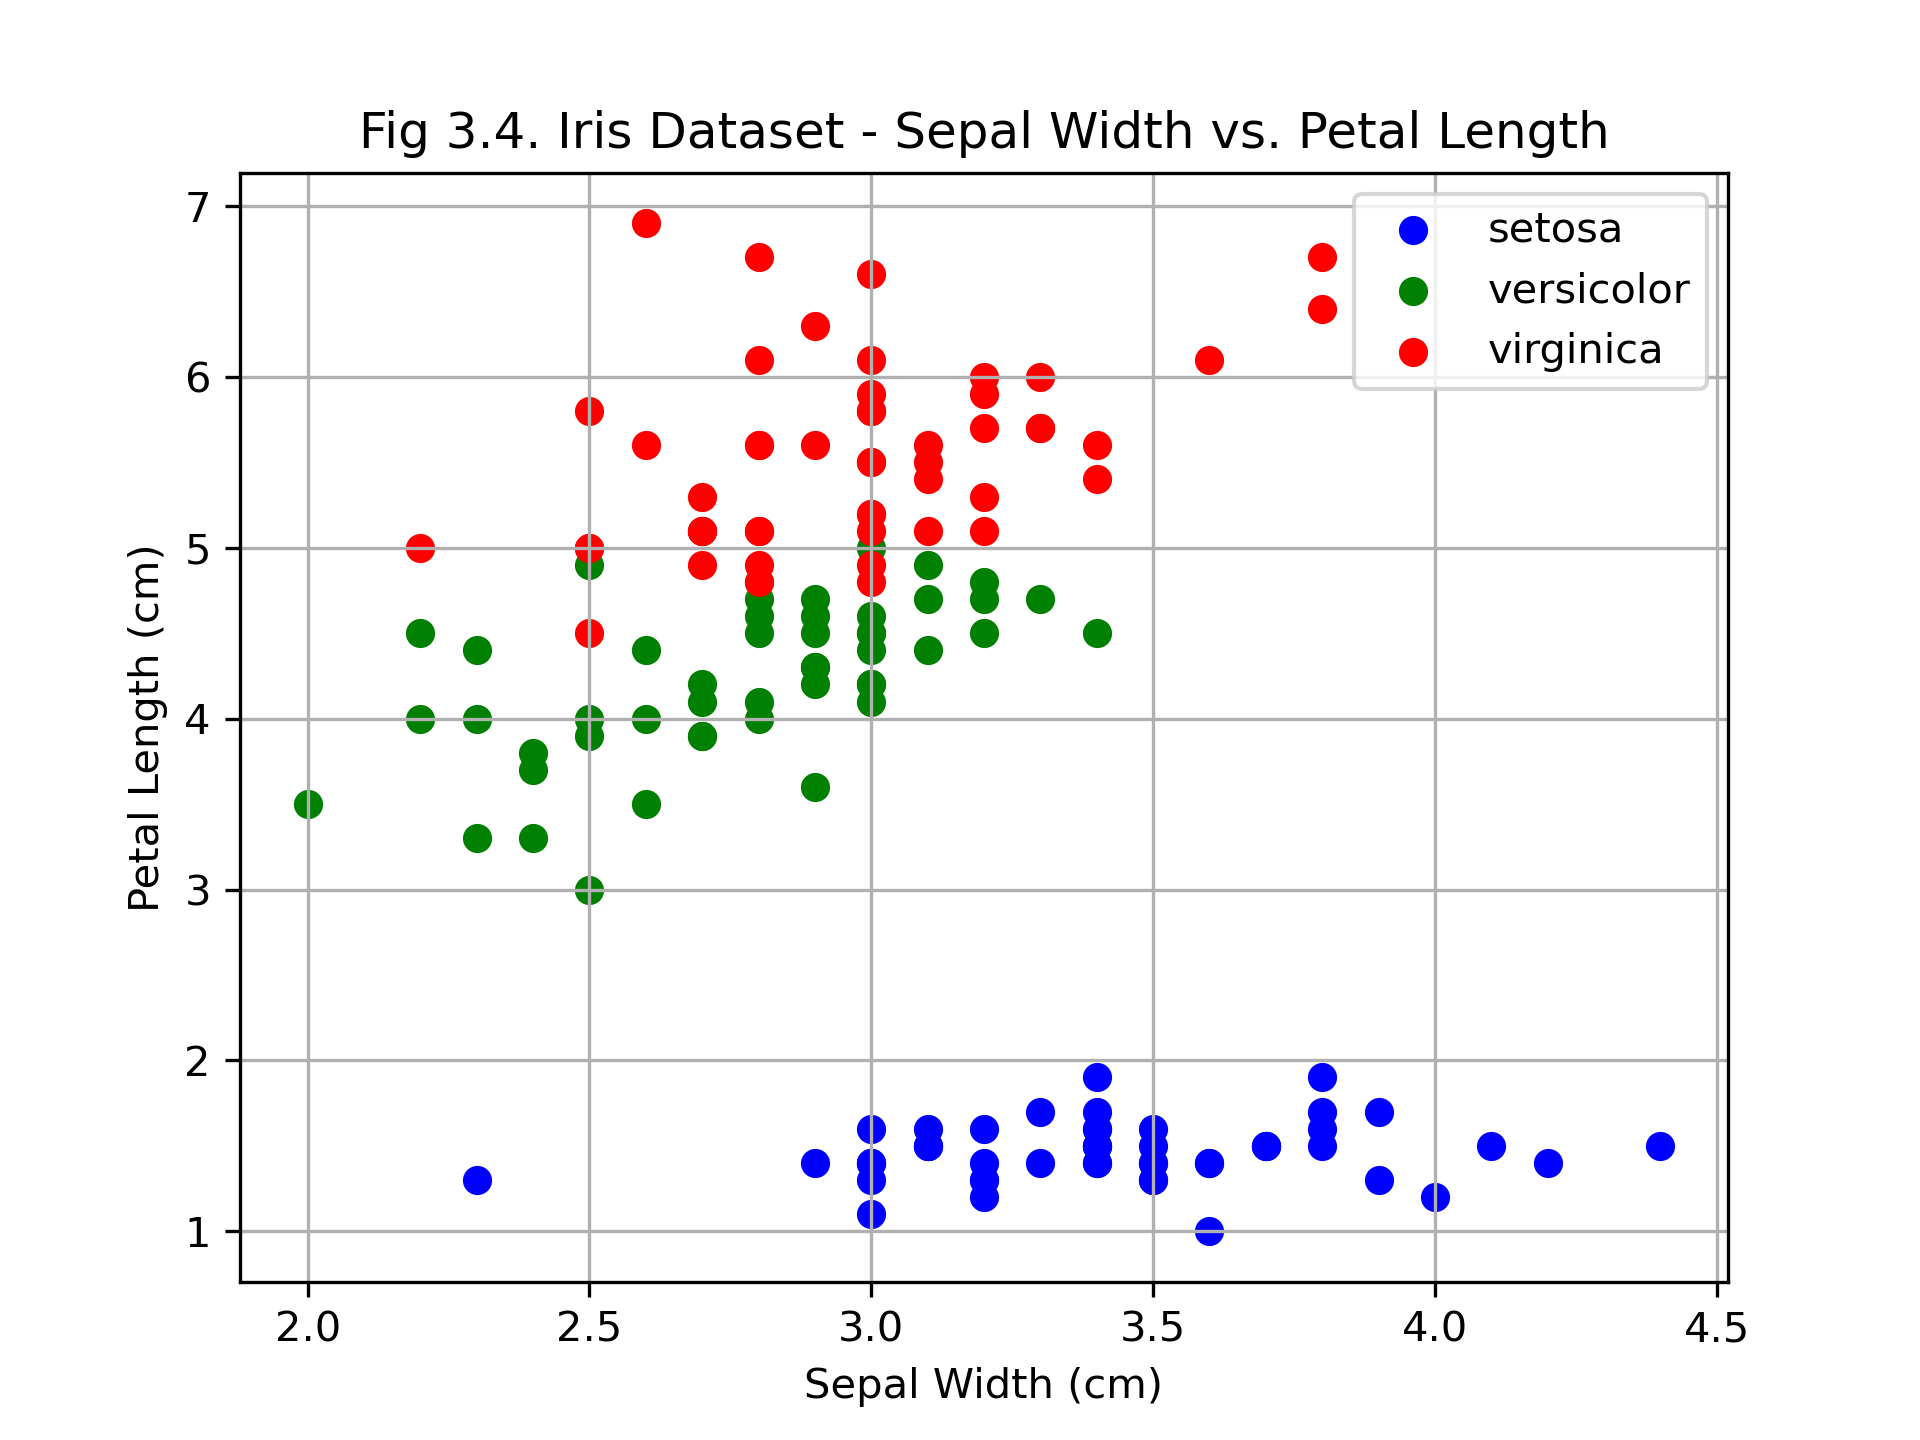
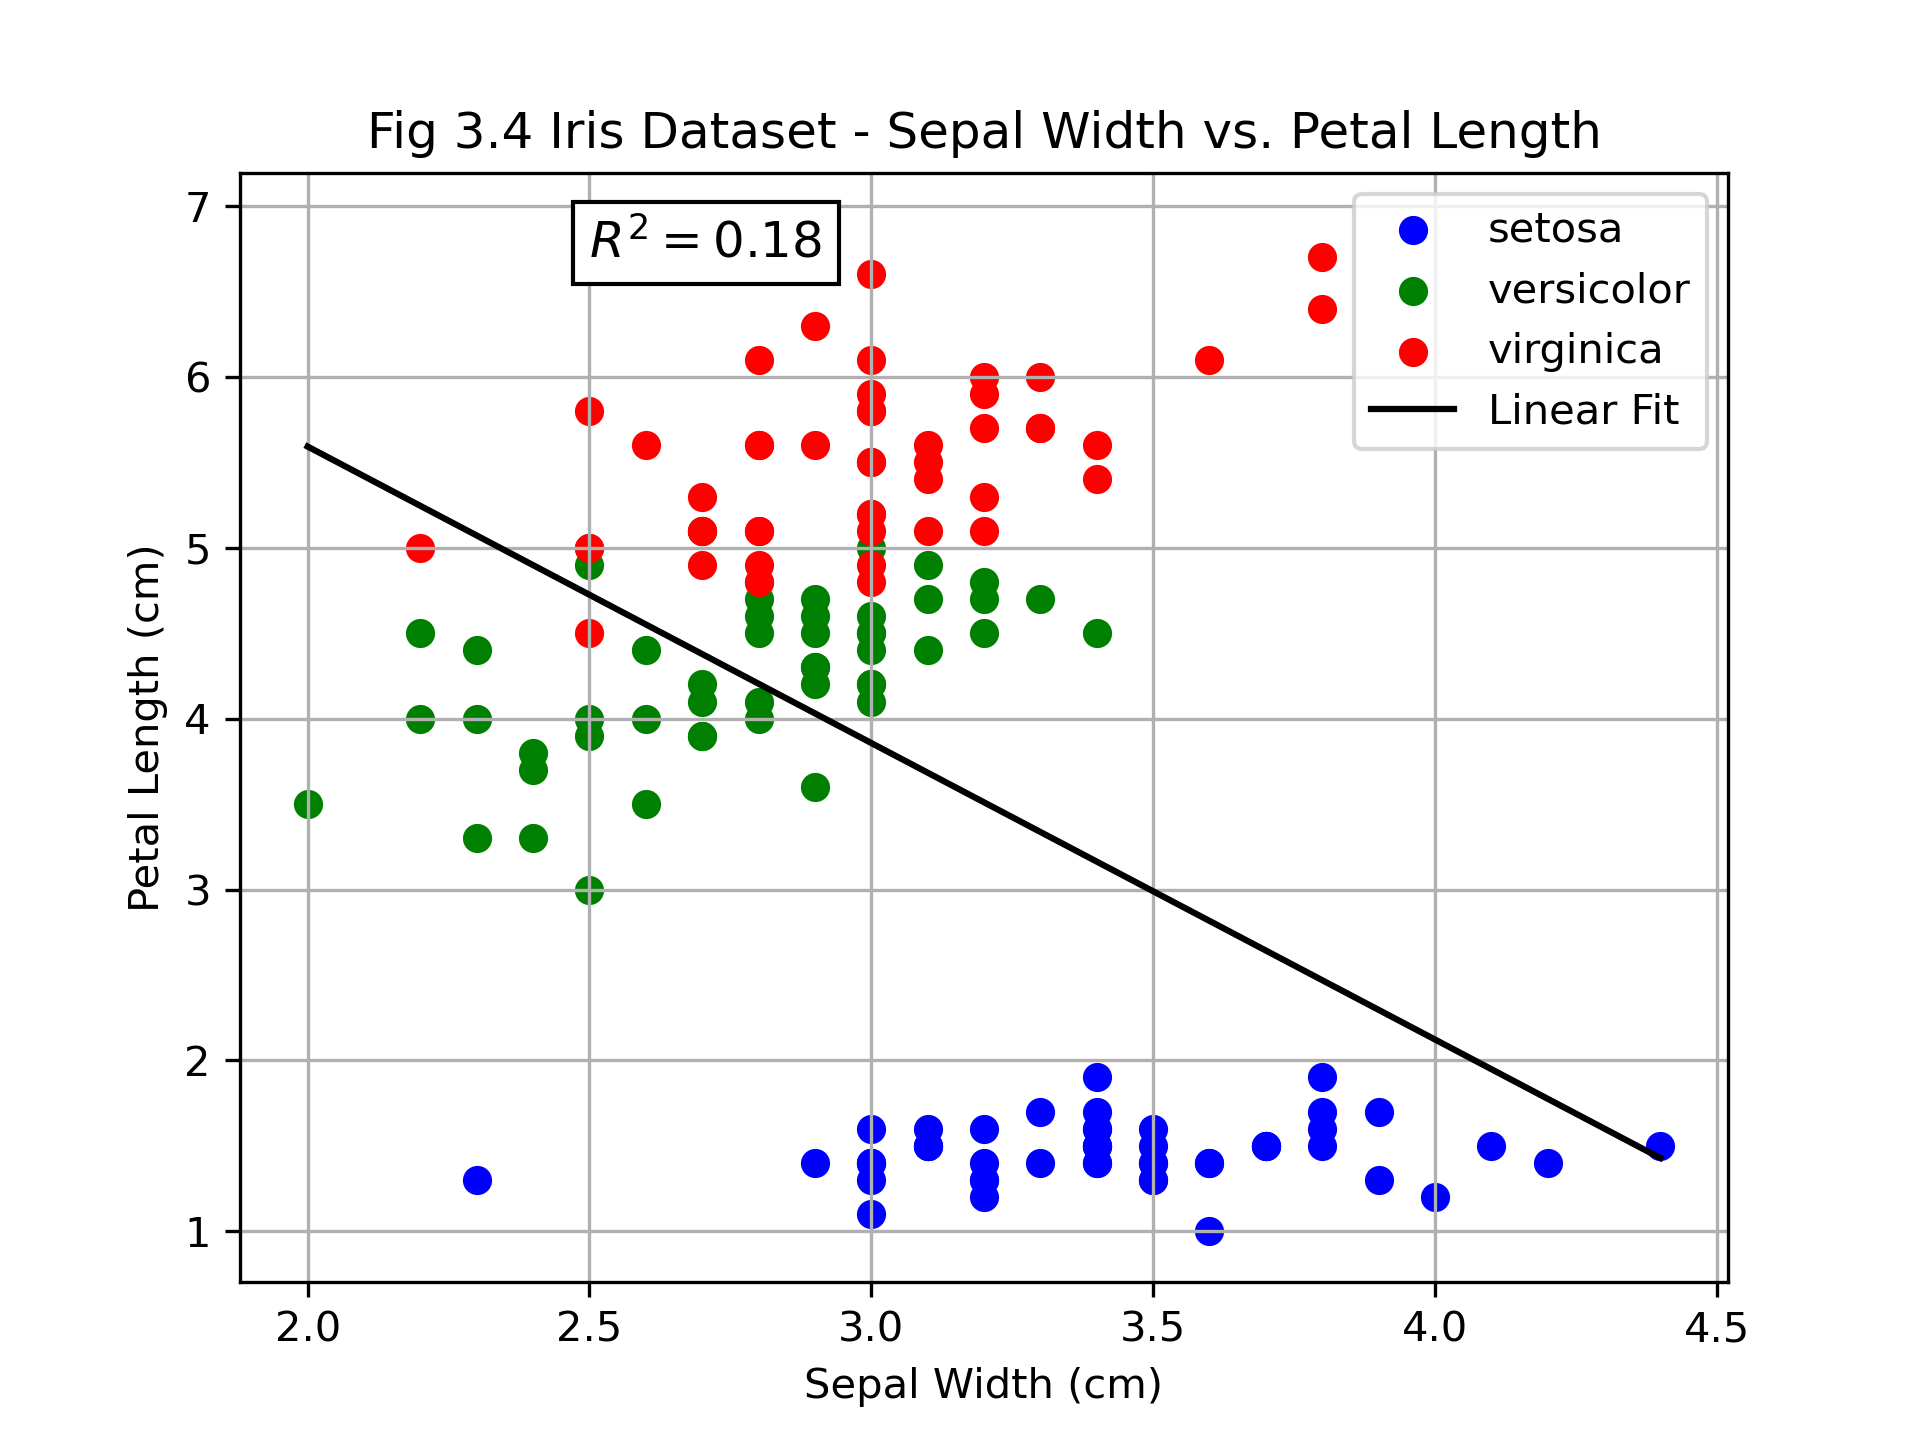
Simplified code for al scatter plots in Task 3, and added R^2 calculations with Linear Regression Lines

diff --git a/iris-analysis.py b/iris-analysis.py
@@ -224,7 +224,7 @@ plt.plot(x_vals, slope * x_vals + intercept, color='black', label='Linear Fit')
 # Adding axes labels and scatter plot title
 plt.xlabel('Sepal Length (cm)')
 plt.ylabel('Sepal Width (cm)')
-plt.title('Iris Dataset - Sepal Length vs. Sepal Width')
+plt.title('Fig 3.1 Iris Dataset - Sepal Length vs. Sepal Width')
 # Displays the R^2 value on the scatter plot with a white background box
 plt.text(min(sepal_l) + 0.5, max(sepal_w) - 0.2, f'$R^2 = {r2:.2f}$', fontsize=12, bbox=dict(facecolor='white'))
 # Displays a grid on the scatter plot
@@ -237,60 +237,90 @@ plt.show()
 # Steps are repeated for the next 5 scatter plots, linear rgeression lines and R^2 calculations, with the required variables for each plot.
 
 # 2. Sepal Length vs Petal Length
-plt.scatter(sepal_l[target==0], petal_l[target==0], color = 'blue', label = target_names[0], alpha = 1)
-plt.scatter(sepal_l[target==1], petal_l[target==1], color = 'green', label = target_names[1], alpha = 1)
-plt.scatter(sepal_l[target==2], petal_l[target==2], color = 'red', label = target_names[2], alpha = 1)
+slope, intercept = np.polyfit(sepal_l, petal_l, 1)
+y_pred = slope * sepal_l + intercept
+r2 = 1 - np.sum((petal_l - y_pred) ** 2) / np.sum((petal_l - np.mean(petal_l)) ** 2)
+colors = ['blue', 'green', 'red']
+for i in range(3):
+    plt.scatter(sepal_l[target == i], petal_l[target == i], color=colors[i], label=target_names[i])
+x_vals = np.linspace(min(sepal_l), max(sepal_l), 100)
+plt.plot(x_vals, slope * x_vals + intercept, color='black', label='Linear Fit')
 plt.xlabel('Sepal Length (cm)')
 plt.ylabel('Petal Length (cm)')
-plt.title('Fig 3.2. Iris Dataset - Sepal Length vs. Petal Length')
+plt.title('Fig 3.2 Iris Dataset - Sepal Length vs. Petal Length')
+plt.text(min(sepal_l) + 0.5, max(petal_l) - 0.2, f'$R^2 = {r2:.2f}$', fontsize=12, bbox=dict(facecolor='white'))
 plt.grid(True)
 plt.legend()
 plt.savefig("Scatter Plots/Fig 3.2. Iris Dataset - Sepal Length vs. Petal Length.png", dpi=300)
 plt.show()
 
 # 3. Sepal length vs Petal Width
-plt.scatter(sepal_l[target==0], petal_w[target==0], color = 'blue', label = target_names[0], alpha = 1)
-plt.scatter(sepal_l[target==1], petal_w[target==1], color = 'green', label = target_names[1], alpha = 1)
-plt.scatter(sepal_l[target==2], petal_w[target==2], color = 'red', label = target_names[2], alpha = 1)
+slope, intercept = np.polyfit(sepal_l, petal_w, 1)
+y_pred = slope * sepal_l + intercept
+r2 = 1 - np.sum((petal_w - y_pred) ** 2) / np.sum((petal_w - np.mean(petal_w)) ** 2)
+colors = ['blue', 'green', 'red']
+for i in range(3):
+    plt.scatter(sepal_l[target == i], petal_w[target == i], color=colors[i], label=target_names[i])
+x_vals = np.linspace(min(sepal_l), max(sepal_l), 100)
+plt.plot(x_vals, slope * x_vals + intercept, color='black', label='Linear Fit')
 plt.xlabel('Sepal Length (cm)')
 plt.ylabel('Petal Width (cm)')
-plt.title('Fig 3.3. Iris Dataset - Sepal Length vs. Petal Width')
+plt.title('Fig 3.3 Iris Dataset - Sepal Length vs. Petal Width')
+plt.text(min(sepal_l) + 0.5, max(petal_w) - 0.2, f'$R^2 = {r2:.2f}$', fontsize=12, bbox=dict(facecolor='white'))
 plt.grid(True)
 plt.legend()
 plt.savefig("Scatter Plots/Fig 3.3. Iris Dataset - Sepal Length vs. Petal Width.png", dpi=300)
 plt.show()
 
 # 4. Sepal Width vs Petal Length
-plt.scatter(sepal_w[target==0], petal_l[target==0], color = 'blue', label = target_names[0], alpha = 1)
-plt.scatter(sepal_w[target==1], petal_l[target==1], color = 'green', label = target_names[1], alpha = 1)
-plt.scatter(sepal_w[target==2], petal_l[target==2], color = 'red', label = target_names[2], alpha = 1)
+slope, intercept = np.polyfit(sepal_w, petal_l, 1)
+y_pred = slope * sepal_w + intercept
+r2 = 1 - np.sum((petal_l - y_pred) ** 2) / np.sum((petal_l - np.mean(petal_l)) ** 2)
+colors = ['blue', 'green', 'red']
+for i in range(3):
+    plt.scatter(sepal_w[target == i], petal_l[target == i], color=colors[i], label=target_names[i])
+x_vals = np.linspace(min(sepal_w), max(sepal_w), 100)
+plt.plot(x_vals, slope * x_vals + intercept, color='black', label='Linear Fit')
 plt.xlabel('Sepal Width (cm)')
 plt.ylabel('Petal Length (cm)')
-plt.title('Fig 3.4. Iris Dataset - Sepal Width vs. Petal Length')
+plt.title('Fig 3.4 Iris Dataset - Sepal Width vs. Petal Length')
+plt.text(min(sepal_w) + 0.5, max(petal_l) - 0.2, f'$R^2 = {r2:.2f}$', fontsize=12, bbox=dict(facecolor='white'))
 plt.grid(True)
 plt.legend()
 plt.savefig("Scatter Plots/Fig 3.4. Iris Dataset - Sepal Width vs. Petal Length.png", dpi=300)
 plt.show()
 
 # 5. Sepal Width vs Petal Width
-plt.scatter(sepal_w[target==0], petal_w[target==0], color = 'blue', label = target_names[0], alpha = 1)
-plt.scatter(sepal_w[target==1], petal_w[target==1], color = 'green', label = target_names[1], alpha = 1)
-plt.scatter(sepal_w[target==2], petal_w[target==2], color = 'red', label = target_names[2], alpha = 1)
+slope, intercept = np.polyfit(sepal_w, petal_w, 1)
+y_pred = slope * sepal_w + intercept
+r2 = 1 - np.sum((petal_w - y_pred) ** 2) / np.sum((petal_w - np.mean(petal_w)) ** 2)
+colors = ['blue', 'green', 'red']
+for i in range(3):
+    plt.scatter(sepal_w[target == i], petal_w[target == i], color=colors[i], label=target_names[i])
+x_vals = np.linspace(min(sepal_w), max(sepal_w), 100)
+plt.plot(x_vals, slope * x_vals + intercept, color='black', label='Linear Fit')
 plt.xlabel('Sepal Width (cm)')
 plt.ylabel('Petal Width (cm)')
-plt.title('Fig 3.5. Iris Dataset - Sepal Width vs. Petal Width')
+plt.title('Fig 3.5 Iris Dataset - Sepal Width vs. Petal Width')
+plt.text(min(sepal_w) + 0.5, max(petal_w) - 0.2, f'$R^2 = {r2:.2f}$', fontsize=12, bbox=dict(facecolor='white'))
 plt.grid(True)
 plt.legend()
 plt.savefig("Scatter Plots/Fig 3.5. Iris Dataset - Sepal Width vs. Petal Width.png", dpi=300)
 plt.show()
 
 # 6. Petal Length vs Petal Width
-plt.scatter(petal_l[target==0], petal_w[target==0], color = 'blue', label = target_names[0], alpha = 1)
-plt.scatter(petal_l[target==1], petal_w[target==1], color = 'green', label = target_names[1], alpha = 1)
-plt.scatter(petal_l[target==2], petal_w[target==2], color = 'red', label = target_names[2], alpha = 1)
+slope, intercept = np.polyfit(petal_l, petal_w, 1)
+y_pred = slope * petal_l + intercept
+r2 = 1 - np.sum((petal_w - y_pred) ** 2) / np.sum((petal_w - np.mean(petal_w)) ** 2)
+colors = ['blue', 'green', 'red']
+for i in range(3):
+    plt.scatter(petal_l[target == i], petal_w[target == i], color=colors[i], label=target_names[i])
+x_vals = np.linspace(min(petal_l), max(petal_l), 100)
+plt.plot(x_vals, slope * x_vals + intercept, color='black', label='Linear Fit')
 plt.xlabel('Petal Length (cm)')
 plt.ylabel('Petal Width (cm)')
-plt.title('Fig 3.6. Iris Dataset - Petal Length vs. Petal Width')
+plt.title('Fig 3.6 Iris Dataset - Petal Length vs. Petal Width')
+plt.text(min(petal_l) + 0.5, max(petal_w) - 0.2, f'$R^2 = {r2:.2f}$', fontsize=12, bbox=dict(facecolor='white'))
 plt.grid(True)
 plt.legend()
 plt.savefig("Scatter Plots/Fig 3.6. Iris Dataset - Petal Length vs. Petal Width.png", dpi=300)
